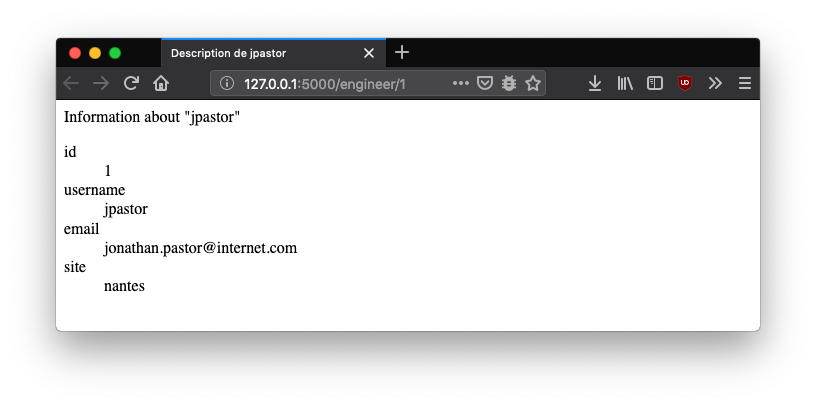
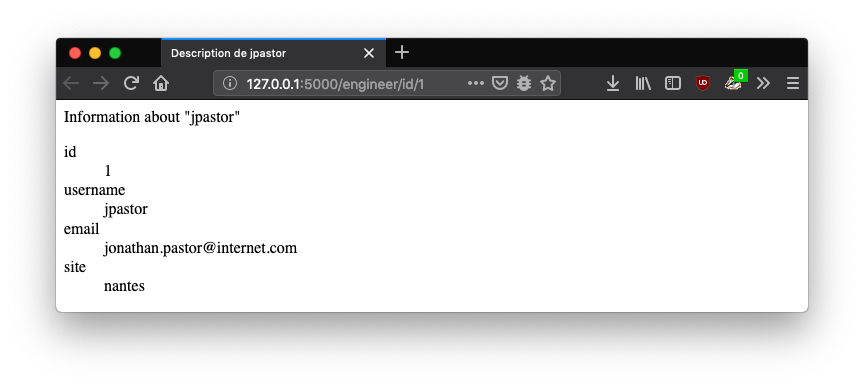
save work on session 3 and session 4

Changed region(s): [[0.0613, 0.0933, 0.9498, 0.8394]]

diff --git a/session4_flask_intro.md b/session4_flask_intro.md
@@ -8,22 +8,23 @@ order: 4
 {:toc}
 
 
-Cette session part du principe que vous avez fait la [session
-0](session0.html) : avant de démarrer cette session, assurez vous de
-bien avoir un environnement de développement Flask fonctionnel. Si ce
-n'est pas le cas, veuillez suivre les instructions de la [session
-0](session0.html) avant de poursuivre avec les instructions
-ci-dessous.
+Avant de démarrer cette session, assurez vous de bien avoir un
+environnement de développement Flask fonctionnel. Si ce n'est pas le
+cas, veuillez suivre les instructions de la [session 3](/session3_install.html)
+avant de poursuivre avec les instructions ci-dessous.
 
 
 # Une première application web simple, avec Flask
 
-Nous allons voir dans cette Section comment afficher un message dans le navigateur de l'utilisateur. Pour cela nous allons:
+Nous allons voir dans cette Section comment afficher un message dans le navigateur de l'utilisateur. 
 
-* Créer un nouveau projet Flask qui aura pour nom "FlaskTP1"
-* Coder une vue qui affichera le texte "Helloworld" quand l'utilisateur accèdera à l'URL [http://127.0.0.1:5000/greetings](http://127.0.0.1:5000/greetings)
+Tout d'abord commençons par créer un nouveau projet Flask qui aura
+pour nom "FlaskTP1" en suivant les instructions de la [session
+précédente](http://localhost:4000/session3_install.html#v%C3%A9rification-de-linstallation).
 
-Pour cela, éditez le fichier `app.py` généré par PyCharm de manière à ce qu'il contienne le code suivant:
+Nous allons maintenant coder une vue qui affichera le texte
+"Helloworld". Pour cela, éditez le fichier `app.py` généré par PyCharm
+de manière à ce qu'il contienne le code suivant:
 
 ```python
 @app.route('/greetings')
@@ -50,27 +51,26 @@ l'utilisateur accède. Le code suivant définie une fonction qui prend 3
 paramètres, et affiche un calcul:
 
 ```python
-@app.route("/sum/<label>/<int:a>/<int:b>")
-def compute_sum(label, a, b):
+@app.route("/sum/<lang>/<int:a>/<int:b>")
+def compute_sum(lang, a, b):
     c = a + b
-    return label+" "+str(a)+" et "+str(b)+" est "+str(c)
-    
-    # La syntaxe suivante est aussi correcte:
-    # return "%s %s et %s est %s" % (label, a, b, c)
+    if lang == "fr":
+        return "La somme de %d et %d est %d" % (a, b, c)
+    else:
+        return "The sum of %d and %d is %d" % (a, b, c)
 ```
 
-Quand on accède à l'URL [http://127.0.0.1:5000/sum/la somme de
-/3/5](http://127.0.0.1:5000/sum/la somme de /3/5), on obtient le
+Quand on accède à l'URL [http://127.0.0.1:5000/sum/en/3/5](http://127.0.0.1:5000/sum/en/3/5), on obtient le
 résultat suivant:
 
 ![capture d'écran montrant le programme d'installation de miniconda](/assets/img/session1/screen5.png)
 
 
-# Vers des vues plus complexes avec les templates
+# Vers des vues structurées avec les templates
 
 Dans cette section nous verrons comment construire une réponse
 structurée. Dans un premier temps nous retournerons un texte généré en
-Python et transmit à Flask. Dans un second temps, nous verrons comment
+Python et transmis à Flask. Dans un second temps, nous verrons comment
 écrire la même chose en utilisant le moteur de template Jinja2.
 
 
@@ -79,8 +79,9 @@ Python et transmit à Flask. Dans un second temps, nous verrons comment
 Prenons l'exemple suivant:
 
 ```python
+import flask # mettre cette ligne en debut de fichier
+
 @app.route("/complex_view")
-@app.route("/")
 def complex_view():
     # variables
     colors = ["red", "blue", "green", "purple", "dark", "white"]
@@ -106,8 +107,11 @@ def complex_view():
                           mimetype="text")
 ```
 
-En visitant l'URL ... , vous obtiendez ce resultat:
-![capture d'écran montrant le result du premier programme avec une vue complexe](/assets/img/session4/complex_view.png)
+En visitant l'URL
+[http://127.0.0.1:5000/complex_view_template](http://127.0.0.1:5000/complex_view_template),
+vous obtiendez ce resultat: ![capture d'écran montrant le result du
+premier programme avec une vue
+complexe](/assets/img/session4/complex_view.png)
 
 La fonction `complex_view` retourne une réponse textuelle construite
 avec deux structures de contrôle : un `for` et un `if`. Bien qu'étant
@@ -263,18 +267,22 @@ Dans cette section nous allons voir comment renvoyer une réponse HTML
 <!-- est difficilement lisible. Nous verrons dans la sous-section suivante -->
 <!-- comment faire mieux. -->
 
-
-## Simplification de la génération de HTML via les templates
-
 <!-- Flask utilise le moteur de template Jinja2 -->
 
 Tout d'abord récupérer une archive de code
 [session_4_engineer_view.zip](https://github.com/badock/FlaskSar2019ExampleApp/archive/session_4_engineer_view.zip)
-contenant un projet qui servira de base pour cet exercice. Ce TP
-contient:
-* une base de données qui s'initialisera toute seule : les bases de
-  données seront introduites dans une future session.
-* Une classe ingénieur persistante:
+contenant un projet qui servira de base pour cet exercice. 
+
+Ce TP contient Une base de données pour stocker les données. Entre
+deux requêtes, les variables locales à une fonction python ne sont pas
+partagée et les variables globales sont perdues quand le serveur Flask
+est redémarré. Dans le cas présent, la base de données est configurée
+pour s'initialiser toute seule.
+
+**Les bases de données seront introduites dans une future session.**
+
+Le projet contient aussi une classe `Engineer` persistante:
+
 ```python
 class Engineer(db.Model):
     id = <int>
@@ -285,6 +293,11 @@ class Engineer(db.Model):
     def __repr__(self):
         return '<Engineer {}>'.format(self.username)
 ```
+
+Les instances de cette classe sont sauvegardées dans la base de
+données évoquée précédemment. Au démarrage du serveur Flask, les
+ingénieurs précédemment ajoutés seront présents.
+
 * Un fichier app.py qui s'occupe d'initialiser la base de données et qui propose:
   - une fonction `get_all_engineers` qui retourne une liste d'ingénieurs
   - une fonction `get_engineer_by_id` qui retourne un ingénieur en fonction de son identifiant
@@ -331,14 +344,14 @@ allons:
 - 3) créer une nouvelle fonction python dans le fichier `app.py`, qui reprendrait le code suivant:
 
 ```python
-@app.route('/engineer/<int:engineer_id>')
-def show_engineer(engineer_id):
+@app.route('/engineer/id/<int:engineer_id>')
+def show_engineer_by_id(engineer_id):
     engineer = get_engineer_by_id(engineer_id)
     return flask.render_template("show_engineer.html.jinja2",
                                  engineer=engineer)
 ```
 
-En visitant la page [http://127.0.0.1:5000/engineer/1](http://127.0.0.1:5000/engineer/1), le résultat suivant devrait être affiché:
+En visitant la page [http://127.0.0.1:5000/engineer/id/1](http://127.0.0.1:5000/engineer/id/1), le résultat suivant devrait être affiché:
 ![description d'un ingénieur](/assets/img/session4/engineer_description.png)
 
 
@@ -350,9 +363,9 @@ Pour la prochaine séance, nous vous demandons de codez une vue qui:
 
 Pour cela vous pourrez:
 - utiliser la fonction `get_engineers_in_site` qui a un site retourne les ingénieurs qui y sont affiliés
-- créer une template jinja `display_engineers_by.site.html.jinja2`
+- créer une template jinja `display_engineers_by_site.html.jinja2`
 - vous inspirer des templates vues en cours en utilisant un `for` et {% raw %}`{{ engineer.X }}`{% endraw %}
-- (bonus) vous pouvez afficher les ingénieurs sous forme de liste HTML en utilisant la structure:
+- Suggestion: vous pouvez afficher les ingénieurs sous forme de liste HTML en utilisant la structure:
 
 ```html
 <ul>
